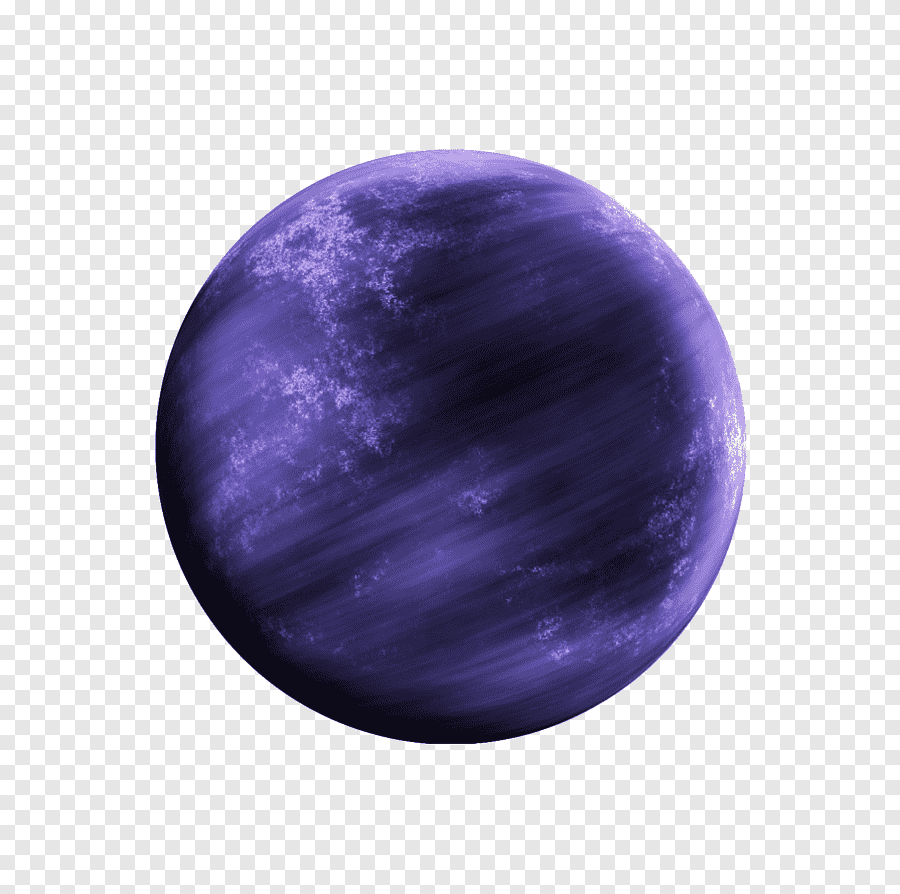
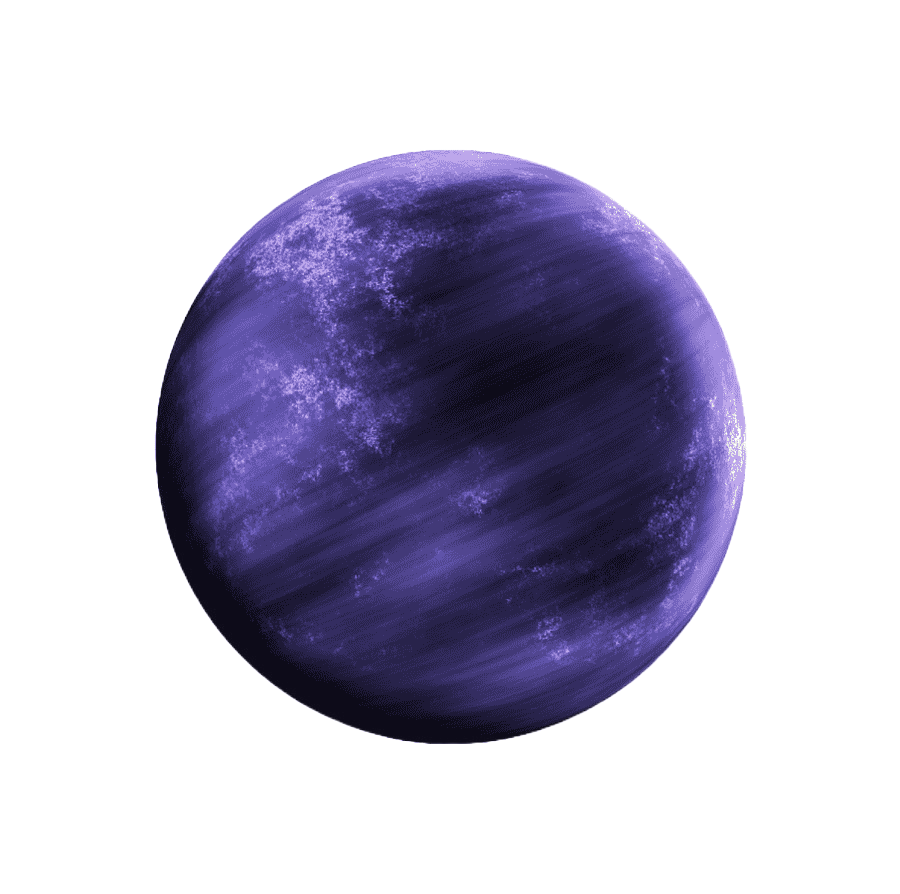
asteroids can now be destroyed with projectiles

diff --git a/script.js b/script.js
@@ -254,7 +254,7 @@ class Planet extends Asteroid{
         super({position});
         this.velocity = {
             x: 0,
-            y: Math.random() * 2 + 0.1
+            y: Math.random() + 0.1
         };
         const image = new Image();
         image.src = imageFile;
@@ -303,7 +303,7 @@ const planets = [new Planet({
         y: 50
     }, 
     imageFile: './purple-planet.png',
-    scale: 1
+    scale: 0.2
 })];
  
 const keys = {
@@ -403,6 +403,32 @@ function animate() {
     
     player.update();
     asteroids.forEach((asteroid, index) => {
+        projectiles.forEach((projectile, j) => {
+            if(projectile.position.y - projectile.radius <= asteroid.position.y + asteroid.height
+                && projectile.position.x + projectile.radius >= asteroid.position.x
+                && projectile.position.x - projectile.radius <= asteroid.position.x + asteroid.width
+                && projectile.position.y + projectile.radius >= asteroid.position.y){
+                
+                setTimeout(() => {
+                    const asteroidFound = asteroids.find(asteroid2 => {
+                        return asteroid2 === asteroid;
+                    });
+                    const projectileFound = projectiles.find(projectile3 => projectile3 === projectile);
+                    //remove invader and projectile
+                    if(asteroidFound && projectileFound) {
+                        score += 50;
+                        scoreEl.innerHTML = score;
+                        createParticles({
+                            object: asteroid,
+                            color: 'grey', 
+                            fades: true
+                        });
+                        asteroids.splice(index, 1);
+                        projectiles.splice(j, 1);
+                    }
+                }, 0);
+            }
+        });
         if(asteroid.position && player.position){
             if(asteroid.position.y + asteroid.height >= player.position.y + (player.height / 2)
             && asteroid.position.x + asteroid.width >= player.position.x
